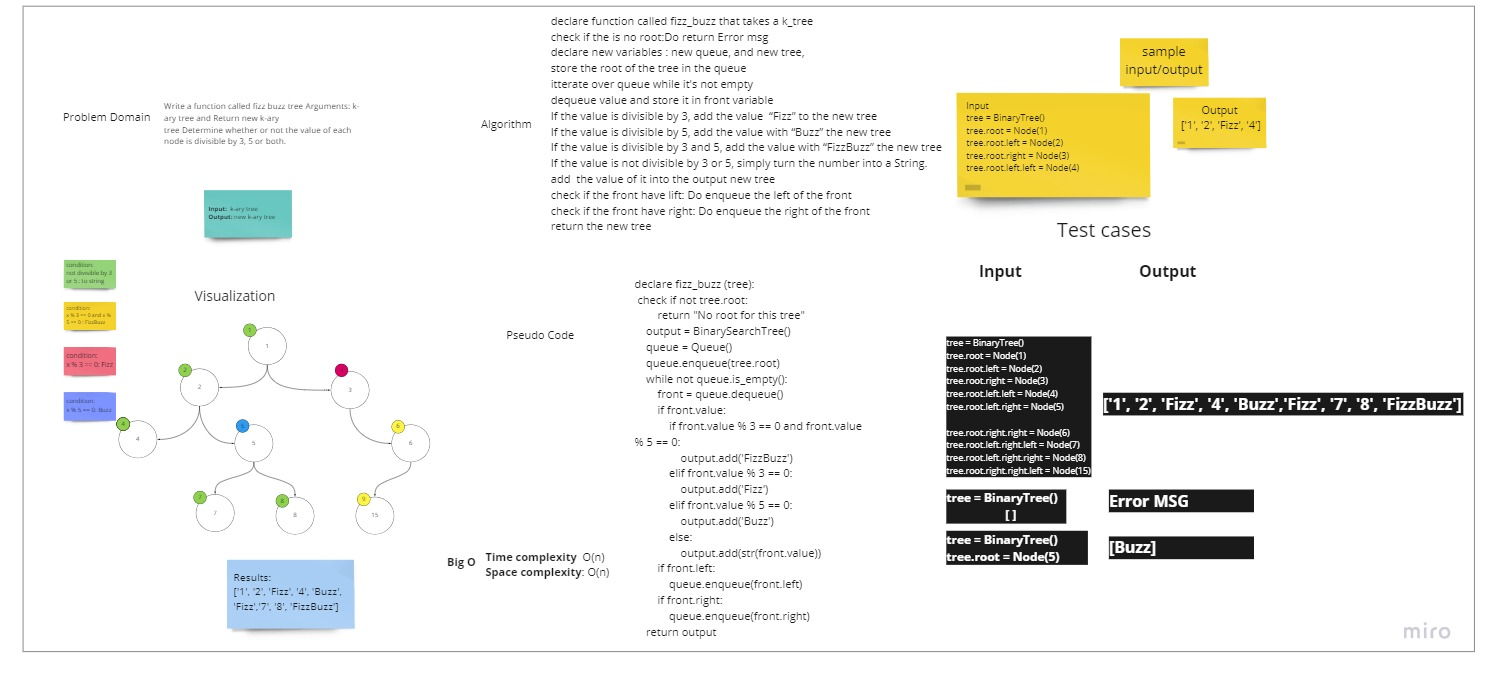
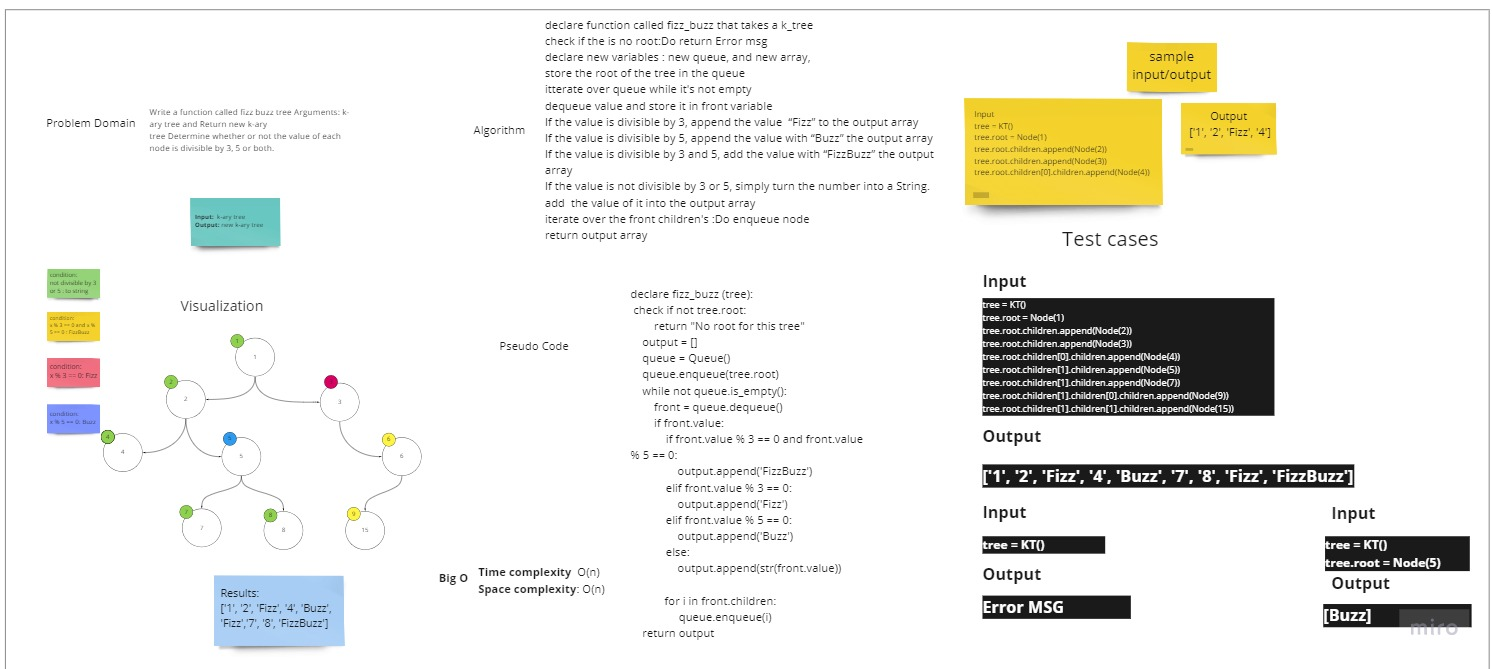
fix: update the fizzbuss to accept k tree as an argument, update the whiteboard

diff --git a/tests/test_fizz_buzz.py b/tests/test_fizz_buzz.py
@@ -1,7 +1,8 @@
 import pytest
-from trees.binary_search_tree import *
 from trees.helper_functions.tree_fizz_buzz.tree_fizz_buzz import *
-from trees.helper_functions.b_f_s.b_s_f import breadth_first
+
+
+# from trees.helper_functions.b_f_s.b_s_f import breadth_first
 
 # def test_f_b(tree):
 #     assert fizz_buzz(tree) == "weeeeeeeeee"
@@ -9,46 +10,41 @@ from trees.helper_functions.b_f_s.b_s_f import breadth_first
 def test_f_b(tree):
     # tree = BinaryTree()
     actual = fizz_buzz(tree)
-    expected = ['1', '2', 'Fizz', '4', 'Buzz','Fizz', '7', '8', 'FizzBuzz']
+    expected = ['1', '2', 'Fizz', '4', 'Buzz', '7', 'Fizz', 'FizzBuzz']
     assert actual == expected
 
+
 def test_f_b_one_root():
-    tree = BinaryTree()
+    tree = KT()
     tree.root = Node(5)
     actual = fizz_buzz(tree)
     expected = ['Buzz']
     assert actual == expected
 
+
+def test_f_b_chek_if_match_root(tree):
+    actual = tree.breadth_first()
+    expected = [1, 2, 3, 4, 5, 7, 9, 15]
+    assert actual == expected
+
+
 def test_f_b_is_empty():
-    tree = BinaryTree()
+    tree = KT()
     actual = fizz_buzz(tree)
     expected = 'No root for this tree'
     assert actual == expected
 
+
 @pytest.fixture
 def tree():
-    tree = BinarySearchTree()
-    tree.add(1)
-    tree.add(2)
-    tree.add(3)
-    tree.add(4)
-    tree.add(5)
-    tree.add(6)
-    tree.add(7)
-    tree.add(8)
-    tree.add(15)
-    # tree = BinaryTree()
-    # tree.root = Node(2)
-    # tree.root.left = Node(7)
-    # tree.root.right = Node(5)
-    # tree.root.left.left = Node(2)
-    # tree.root.left.right = Node(6)
-    # tree.root.right.right = Node(9)
-    # tree.root.left.right.left = Node(5)
-    # tree.root.left.right.right = Node(11)
-    # tree.root.right.right.left = Node(4)
-
+    tree = KT()
+    tree.root = Node(1)
+    tree.root.children.append(Node(2))
+    tree.root.children.append(Node(3))
+    tree.root.children[0].children.append(Node(4))
+    tree.root.children[1].children.append(Node(5))
+    tree.root.children[1].children.append(Node(7))
+    tree.root.children[1].children[0].children.append(Node(9))
+    tree.root.children[1].children[1].children.append(Node(15))
+    # ['1', '2', 'Fizz', '4', 'Buzz', '7', 'Fizz', 'FizzBuzz']
     return tree
-# [1, 2, 3, 4, 5, 6, 7, 8, 15]
-
-# ['1', '2', 'Fizz', '4', 'Buzz', '7', '8', 'Fizz', 'FizzBuzz']

diff --git a/trees/helper_functions/tree_fizz_buzz/tree_fizz_buzz.py b/trees/helper_functions/tree_fizz_buzz/tree_fizz_buzz.py
@@ -1,7 +1,7 @@
-from trees.binary_search_tree import *
-from stack_and_queue.stack_and_queue import *
+from trees.helper_functions.tree_fizz_buzz.k_tree import *
 
-def fizz_buzz (tree):
+
+def fizz_buzz(tree):
     '''
     Write a function called fizz buzz tree
     Arguments: k-ary tree
@@ -9,42 +9,25 @@ def fizz_buzz (tree):
     '''
     if not tree.root:
         return "No root for this tree"
-    output = BinarySearchTree()
+    output = []
     queue = Queue()
     queue.enqueue(tree.root)
     while not queue.is_empty():
         front = queue.dequeue()
         if front.value:
             if front.value % 3 == 0 and front.value % 5 == 0:
-                output.add('FizzBuzz')
+                output.append('FizzBuzz')
             elif front.value % 3 == 0:
-                output.add(str(front.value) + ' Fizz')
+                output.append('Fizz')
             elif front.value % 5 == 0:
-                output.add('Buzz')
+                output.append('Buzz')
             else:
-                output.add(str(front.value))
-        if front.left:
-            queue.enqueue(front.left)
-        if front.right:
-            queue.enqueue(front.right)
+                output.append(str(front.value))
+            # counter=0
+            # if front.children[counter]
+            #   queue.enqueue[front.children[counter]
+            #   counter+=1
+            for i in front.children:
+                queue.enqueue(i)
 
     return output
-
-
-
-if __name__ == "__main__":
-    tree = BinarySearchTree()
-    tree.add(1)
-    tree.add(2)
-    tree.add(3)
-    tree.add(4)
-    tree.add(5)
-    tree.add(6)
-    tree.add(7)
-    tree.add(8)
-    tree.add(9)
-    tree.add(15)
-    print(tree.pre_order())
-    tree = fizz_buzz(tree)
-    print(tree.pre_order())
-# ['1', '2', '3 Fizz', '4', 'Buzz', '6 Fizz', '7', '8', '9 Fizz', 'FizzBuzz']

diff --git a/trees/helper_functions/tree_fizz_buzz/k_tree.py b/trees/helper_functions/tree_fizz_buzz/k_tree.py
@@ -1,0 +1,32 @@
+from stack_and_queue.stack_and_queue import *
+
+
+class Node:
+    def __init__(self, value):
+        self.value = value
+        self.children = []
+
+
+class KT:
+    def __init__(self):
+        self.root = None
+
+    def breadth_first(self):
+        if not self.root:
+            return self.root
+        c_output = []
+        queue = Queue()
+        queue.enqueue(self.root)
+
+        while not queue.is_empty():
+            front = queue.dequeue()
+            c_output.append(front.value)
+
+            for child in front.children:
+                queue.enqueue(child)
+
+        return c_output
+
+
+
+# KT code from stack overflow

diff --git a/trees/helper_functions/tree_fizz_buzz/README.md b/trees/helper_functions/tree_fizz_buzz/README.md
@@ -17,22 +17,25 @@ for FizzBuzz if not add it to the tree as string.
 Time complexity & Space Complexity: Big O(n)
 
 ## Solution
+
 <!-- Show how to run your code, and examples of it in action -->
 
 ---
-Using queue to loop over the tree value and dequeue each node and check if it matches the
-fizz buzz rule other wise add it to new tree.
+Using queue to loop over the tree values and dequeue each node and check if it matches the
+fizz buzz rule replace it with "Fizz" or "Buzz" or "FizzBuzz"  and add it to the array
+otherwise add the value to output array as string.
+
 
 [Code](https://github.com/muhammadqasemtarboush1/data-structures-and-algorithms/blob/main/trees/helper_functions/tree_fizz_buzz/tree_fizz_buzz)
 
 
 > For testing
-> 
+>
 > you can run :
-> 
-> pytest -v    / 72 test passed 
-> 
-> or 
-> 
->  pytest .\tests\test_binary_tree.py    / 11 test passed 
+>
+> pytest -v / 82 test passed
+>
+> or
+>
+>  pytest .\tests\test_fizz_buzz.py / 4 test passed 
 
